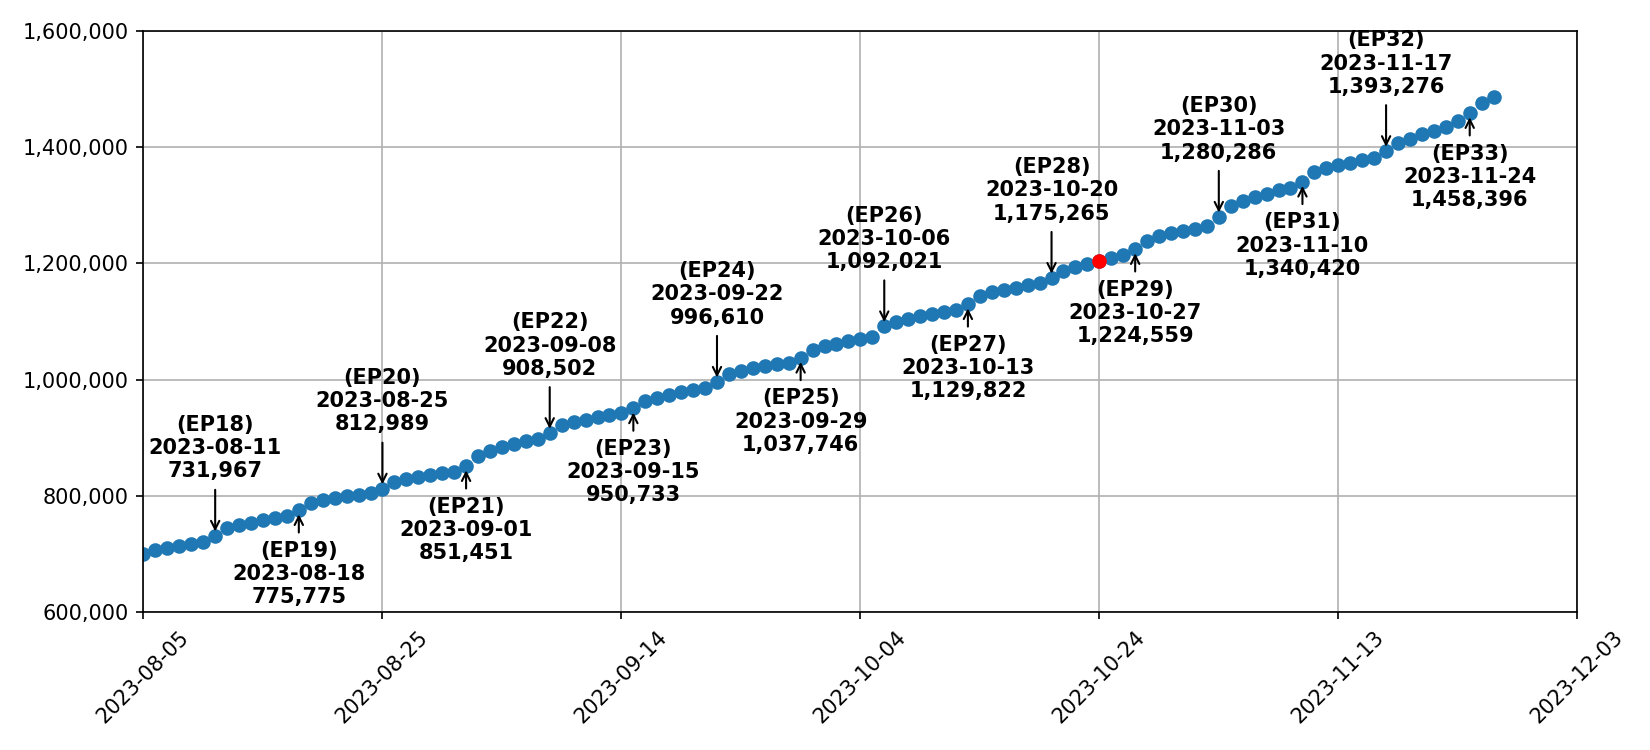
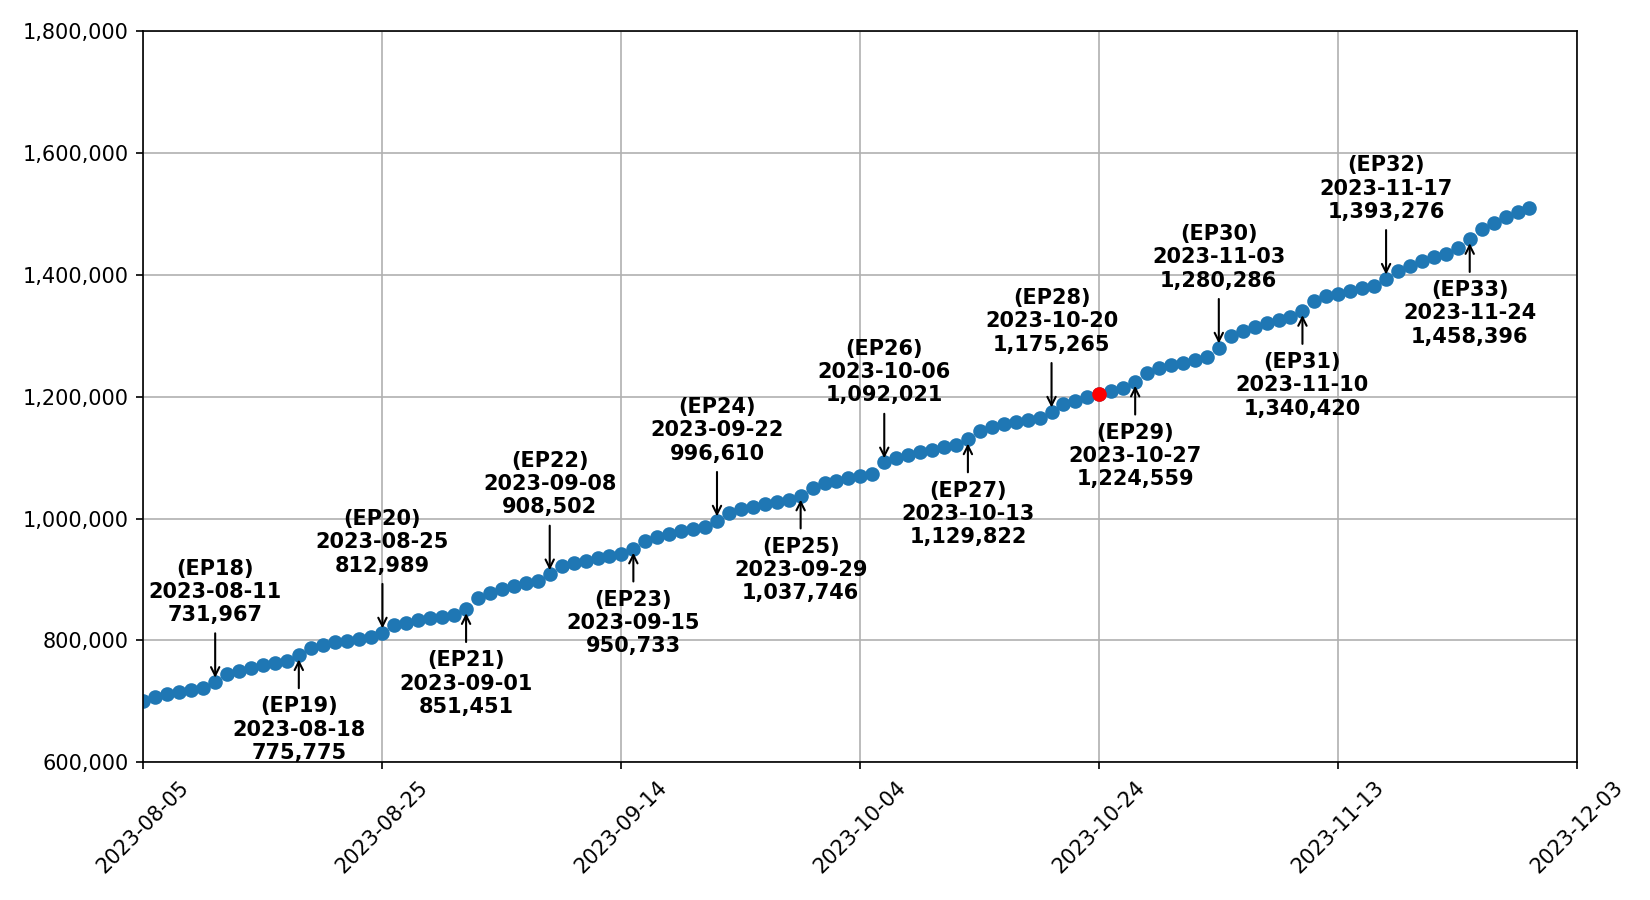
Prediction update

diff --git a/src/lib/prediction.py b/src/lib/prediction.py
@@ -24,7 +24,7 @@ print(line_fitter.predict([[goal]]))
 predictor = goal
 prediction = line_fitter.predict([[goal]])
 
-plt.figure(figsize=(11, 5))
+plt.figure(figsize=(11, 6))
 plt.ylim(600000, y[len(df) - 1] + 100000)  # y축 범위
 plt.xlim(0, len(df))  # x축 범위
 plt.plot(X, y, "o")  # 기록 데이터
@@ -71,7 +71,7 @@ for i in range(len(X)):
             arrowprops=dict(arrowstyle="->", color="black"),
         )
         if placing == 100000:
-            placing = -160000
+            placing = -170000
         else:
             placing = 100000
 # 예측기능 범위 시작
